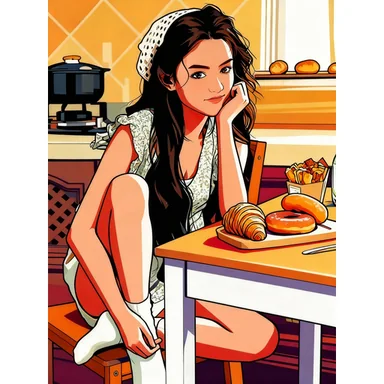
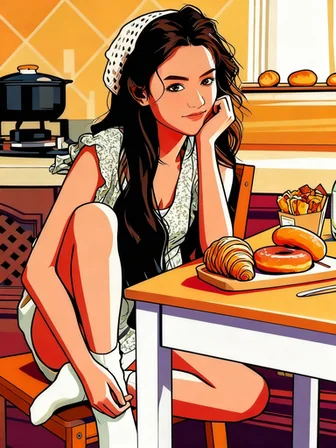
Refcond: trim baked white margins from ref exemplars, enlarge the column
crop_white() removes the uniform white matting baked into the square
exemplar images; column widened to 19% (max 232px), served at 448px.

diff --git a/css/style.css b/css/style.css
@@ -243,8 +243,8 @@ table.figgrid tr.sample-sep > * { padding-top: 16px; }
 table.figgrid td .cell { max-width: 300px; }
 
 /* reference-style exemplar stack (paper Fig. 3/5 "Ref Style" column) */
-td.refstack-td { width: 16%; }
-.refstack { display: flex; flex-direction: column; gap: 6px; max-width: 190px; margin: 0 auto; }
+td.refstack-td { width: 19%; }
+.refstack { display: flex; flex-direction: column; gap: 6px; max-width: 232px; margin: 0 auto; }
 .refstack .cell { min-width: 0; }
 
 /* legend */
